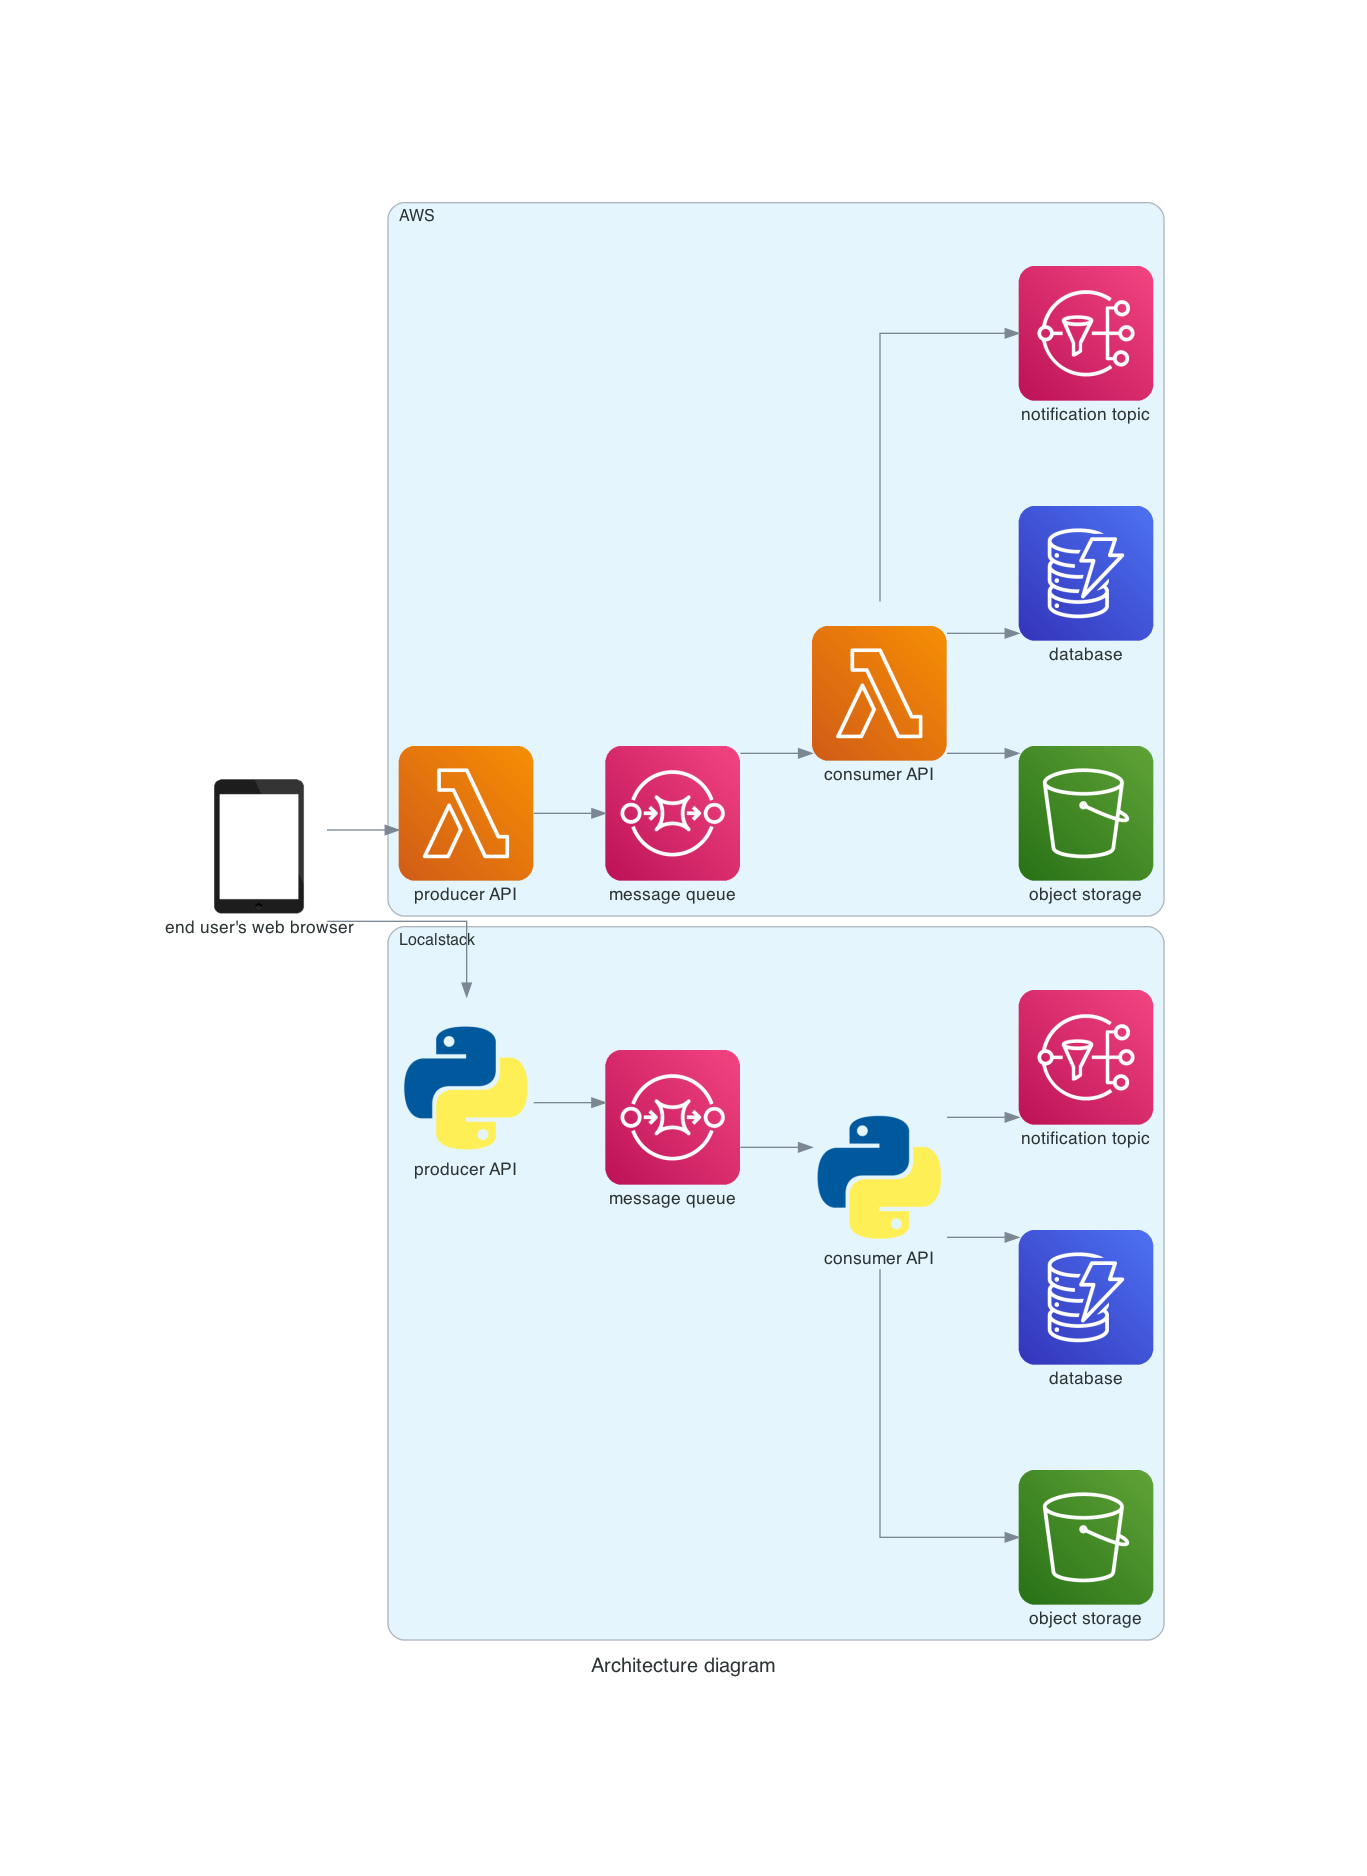
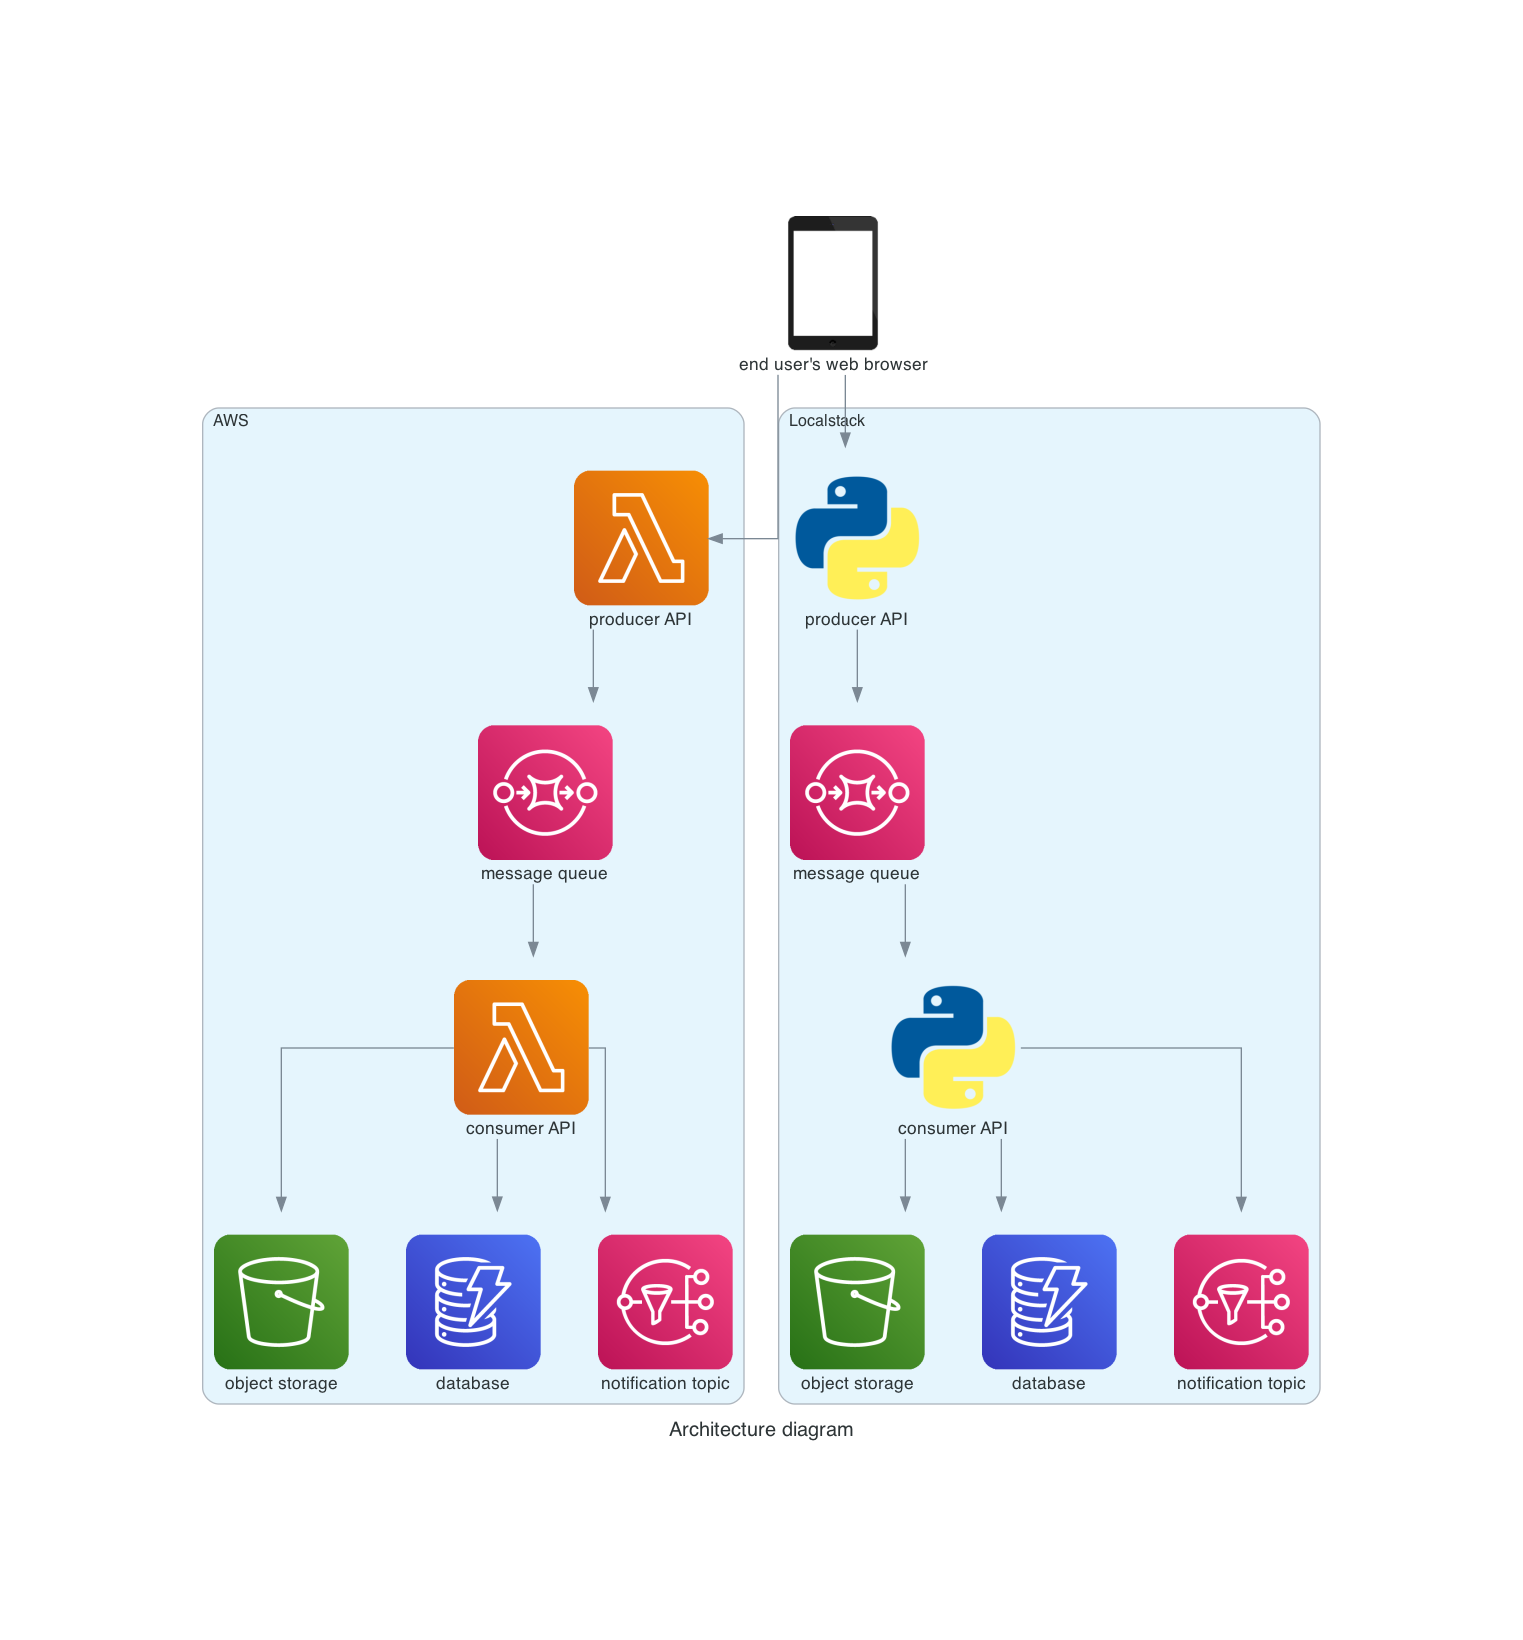
Architecture with Localstack

diff --git a/design/architecture_diagram.py b/design/architecture_diagram.py
@@ -6,7 +6,7 @@ from diagrams.aws.storage import S3
 from diagrams.aws.database import Dynamodb
 from diagrams.programming.language import Python
 
-with Diagram("Architecture diagram", show=False, direction="LR"):
+with Diagram("Architecture diagram", show=False, direction="TB"):
     user = Tablet("end user's web browser")
 
     with Cluster("AWS"):
